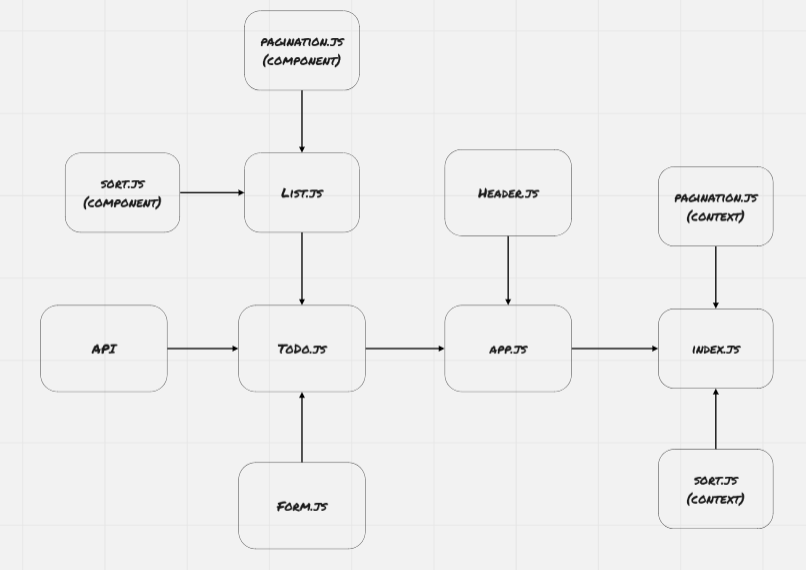
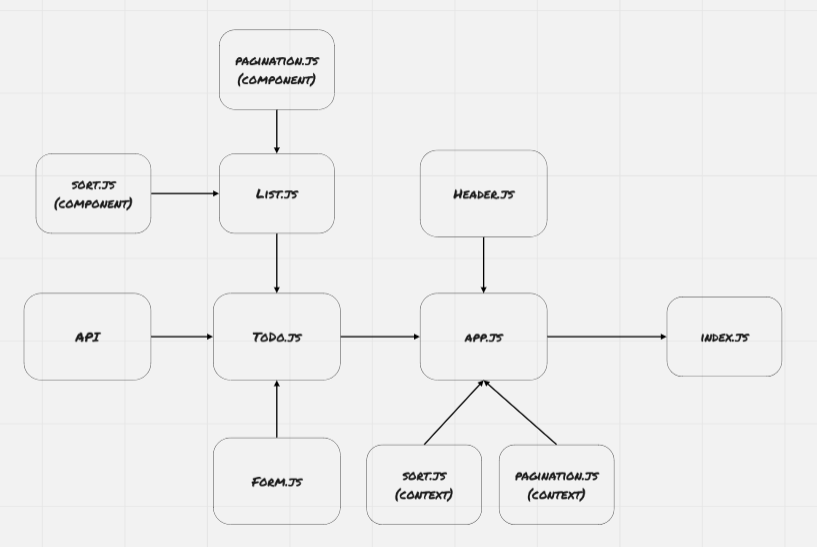
added uml and edited small thing

diff --git a/src/context/auth.js b/src/context/auth.js
@@ -12,7 +12,8 @@ function AuthProvider(props) {
     const [user, setUser] = useState({});
     const state = { loggedIn, setLogin, setLoggedIn, login, user };
 
-    function login (isLoggedIn, token, user) {
+
+    function login(isLoggedIn, token, user) {
         cookie.save('auth', token);
         setLoggedIn(isLoggedIn);
         setUser(user);
@@ -20,7 +21,7 @@ function AuthProvider(props) {
 
     const validateToken = (token) => {
         try {
-            const user = jwt.verify(token,'supersecret')
+            const user = jwt.verify(token, 'supersecret')
             login(true, token, user);
         } catch (error) {
             login(false, null, {});
@@ -28,19 +29,21 @@ function AuthProvider(props) {
         }
     }
 
-    async function setLogin (username, password) {
+    async function setLogin(username, password) {
         try {
-            const response = await superagent.post(`${api}/signin`).set('authorization',`Basic ${btoa(`${username}:${password}`)}`);
+            const response = await superagent.post(`${api}/signin`).set('authorization', `Basic ${btoa(`${username}:${password}`)}`);
             validateToken(response.body.token);
         } catch (error) {
             console.error('Login error', error);
         }
     }
 
-    useEffect(() => {
+    const checkCookies = () => {
         const token = cookie.load('auth');
         validateToken(token);
-    }, [])
+    }
+    
+    useEffect(checkCookies,[])
 
     return (
         <AuthContext.Provider value={state}>

diff --git a/README.md b/README.md
@@ -19,7 +19,7 @@ Before adding, deleting, or updating items, you have to login in, if you login a
 
 ### UML Diagram
 
-![UML](./assets/ToDo-ph3.png)
+![UML](./assets/ToDo-ph4.png)
 
 <hr>
 
